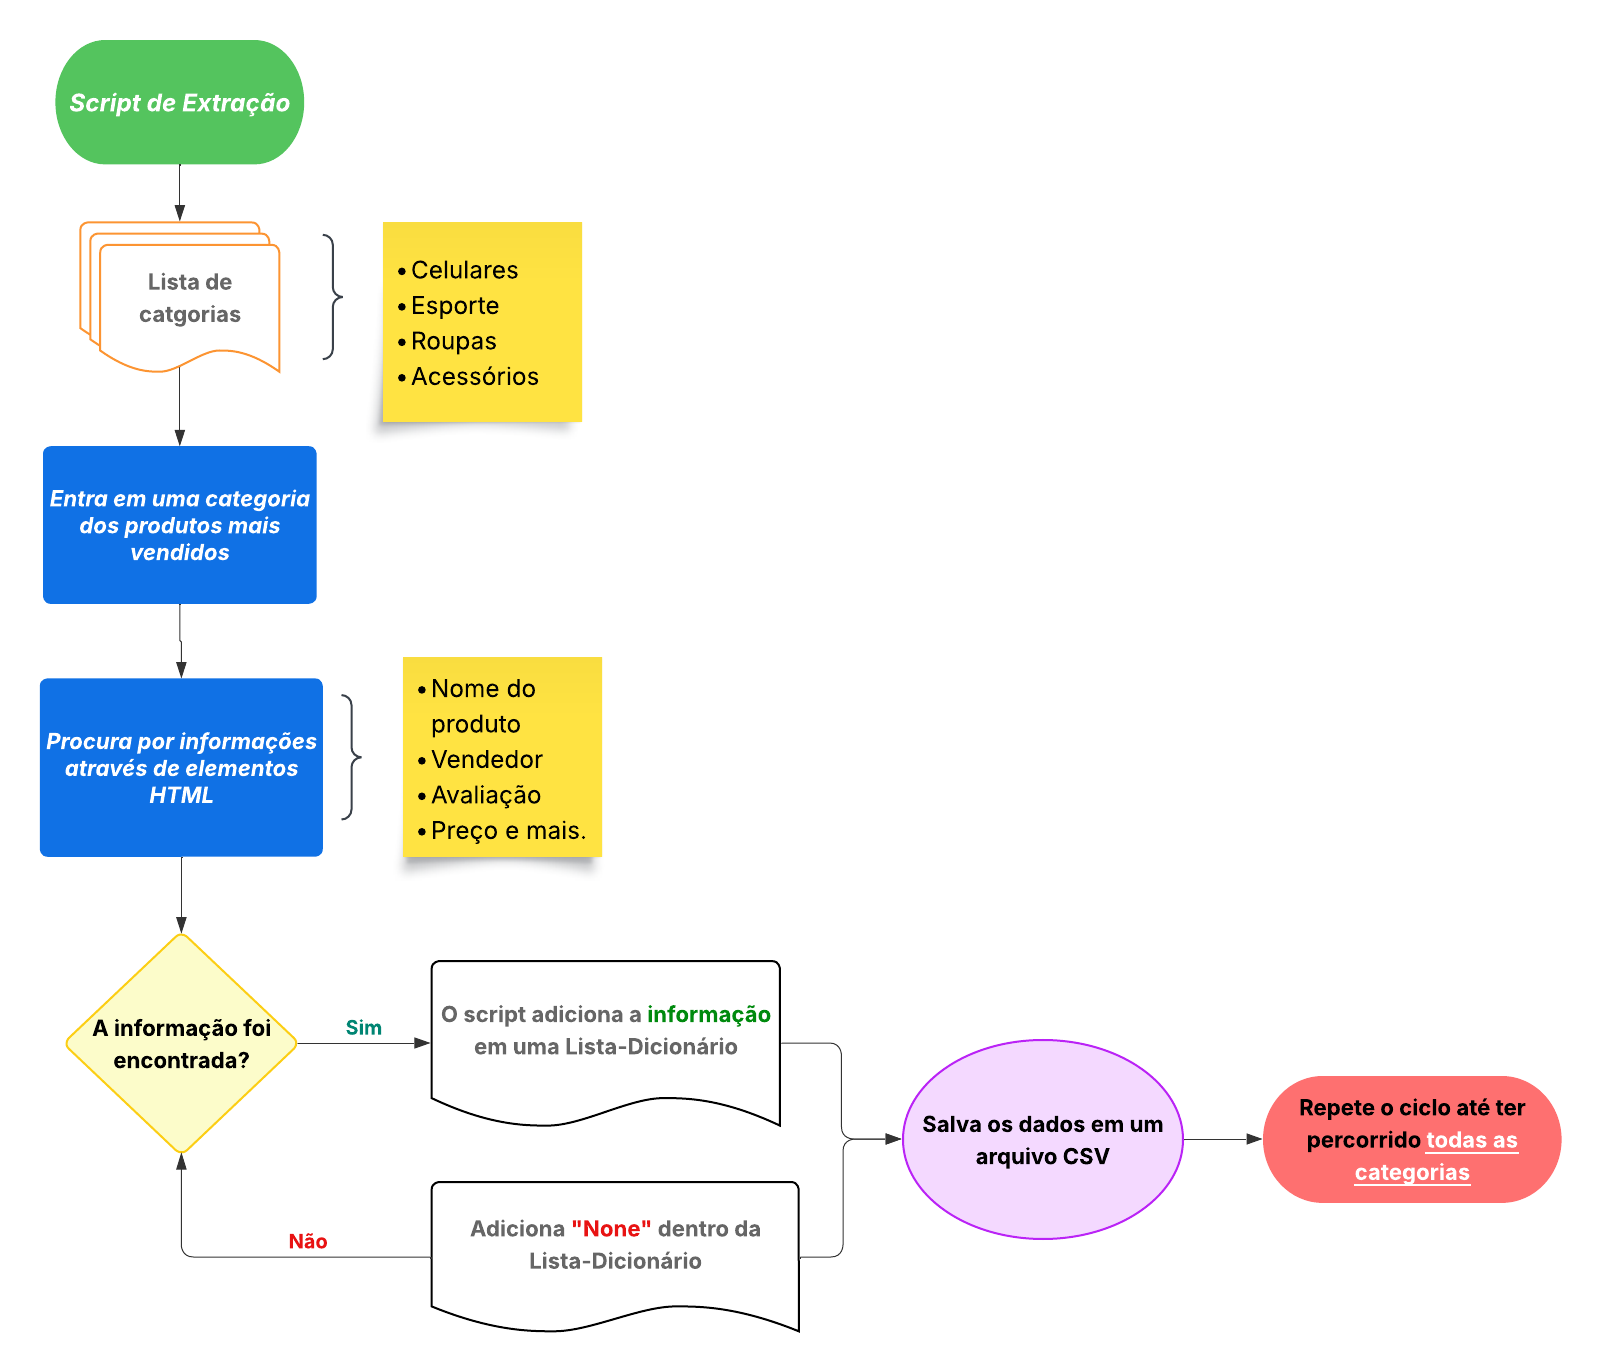
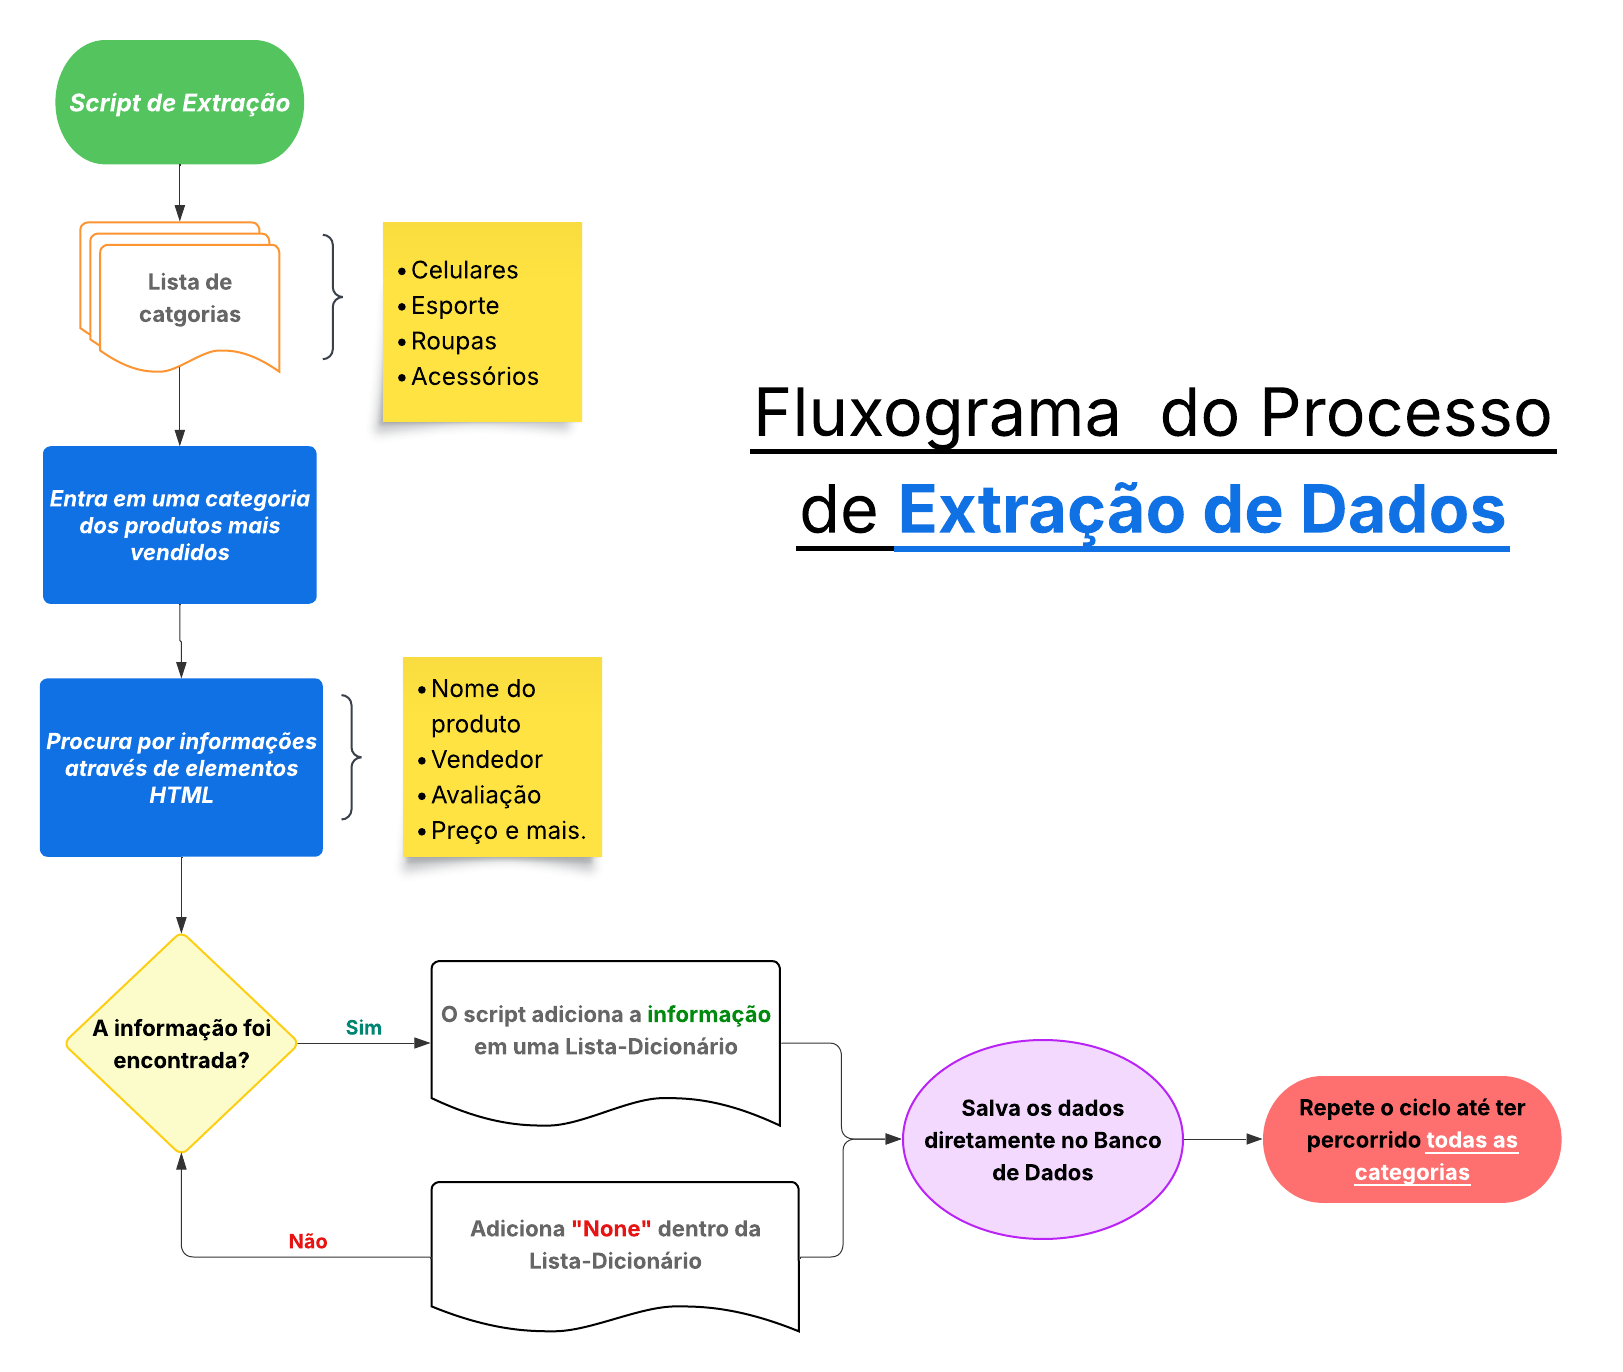
Mudei a imagem do fluxograma

diff --git a/Estrutura/pages/visao_geral.py b/Estrutura/pages/visao_geral.py
@@ -15,7 +15,7 @@ st.title('💡 Introdução')
 st.write("""
          Este projeto é um :yellow[**ETL simples**]  (processo que envolve :orange[**Extração**], :blue[**Transformação**] e :green[**Carregamento**] de dados) separados em 2 partes:
          
-         * :orange[**Parte 1**] (**Extração** e **Transformação**): O script principal extrai automaticamente dados de produtos do site da Mercado Livre. Durante a extração, o programa trata os dados e os armazena em um arquivo CSV.
+         * :orange[**Parte 1**] (**Extração** e **Transformação**): O script principal extrai automaticamente dados de produtos do site da Mercado Livre. Durante a extração, o programa trata os dados e os armazena em um Banco de Dados com SQLite.
          
          * :blue[**Parte 2**] (**Carregamento**): A parte de visualização desses dados acontece neste site através do :red[**Streamlit**], onde se pode ter informações detalhadas sobre esses dados. 
          """)

diff --git a/Estrutura/pages/main.py b/Estrutura/pages/main.py
@@ -38,7 +38,7 @@ with open(css_path, encoding="utf-8") as f:
 # ---------------------------
 st.title('📦 Analisador de Produtos - Mercado Livre')
 st.write(
-    'Este dashboard aprensenta uma análise dos produtos mais vendidos do site da **:yellow[Mercado Livre]**, coletados diretamente  utilizando **:green[Web Scraping]** para auxiliar análises exploratórias e comparativas.')
+    'Este dashboard aprensenta uma análise dos produtos mais vendidos do site do **:yellow[Mercado Livre]**, coletados diretamente  utilizando **:green[Web Scraping]** para auxiliar análises exploratórias e comparativas. Os arquivos estão salvos em um :green[**Banco de Dados**].')
 
 
 # -------------------------------
